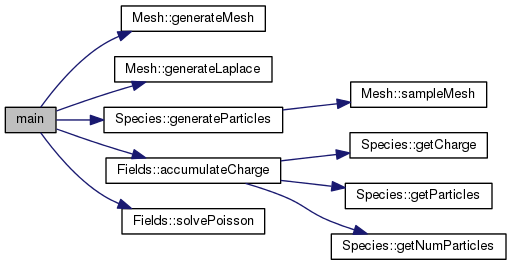
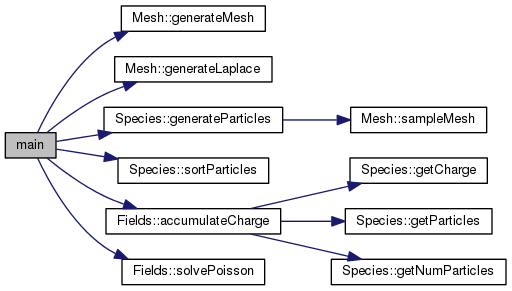
After adding sorting to particles in Species.

diff --git a/PICUP_8cpp_source.html b/PICUP_8cpp_source.html
@@ -111,27 +111,30 @@ var searchBox = new SearchBox("searchBox", "search",false,'Search');
 <div class="line"><a name="l00038"></a><span class="lineno">   38</span>&#160;        <span class="comment">// mesh_test.generateMesh(1, 1.0, 0.0);</span></div>
 <div class="line"><a name="l00039"></a><span class="lineno">   39</span>&#160;        mesh_test.<a class="code" href="classMesh.html#a6b21b6de5008d0b9e35f1eb82c22caab">generateMesh</a>(100, 0.0, 1.0);</div>
 <div class="line"><a name="l00040"></a><span class="lineno">   40</span>&#160;        mesh_test.<a class="code" href="classMesh.html#a3144c9e0bf0b5ce7bfd57762fd254d60">generateLaplace</a>();</div>
-<div class="line"><a name="l00041"></a><span class="lineno">   41</span>&#160;        parts_e.<a class="code" href="classSpecies.html#ad1289661204ea77d35bb47a4c77d0485">generateParticles</a>(1, mesh_test);</div>
-<div class="line"><a name="l00042"></a><span class="lineno">   42</span>&#160;        parts_p.<a class="code" href="classSpecies.html#ad1289661204ea77d35bb47a4c77d0485">generateParticles</a>(0, mesh_test);</div>
-<div class="line"><a name="l00043"></a><span class="lineno">   43</span>&#160;        <a class="code" href="classFields.html">Fields&lt;int, double&gt;</a> fields_test(mesh_test);</div>
-<div class="line"><a name="l00044"></a><span class="lineno">   44</span>&#160;        fields_test.<a class="code" href="classFields.html#aecb07f6f3713ecd2125e63c89cae2466">accumulateCharge</a>&lt;<span class="keywordtype">double</span>&gt;(parts_e);</div>
-<div class="line"><a name="l00045"></a><span class="lineno">   45</span>&#160;        fields_test.<a class="code" href="classFields.html#aecb07f6f3713ecd2125e63c89cae2466">accumulateCharge</a>&lt;<span class="keywordtype">double</span>&gt;(parts_p);</div>
-<div class="line"><a name="l00046"></a><span class="lineno">   46</span>&#160;        fields_test.<a class="code" href="classFields.html#af627aee2efcdbde1f7fe97e900e1ba53">solvePoisson</a>();</div>
-<div class="line"><a name="l00047"></a><span class="lineno">   47</span>&#160;        <span class="comment">//std::cout &lt;&lt; fields_test.getCharge() &lt;&lt; std::endl;</span></div>
-<div class="line"><a name="l00048"></a><span class="lineno">   48</span>&#160;        std::cout &lt;&lt; fields_test.getPotential() &lt;&lt; std::endl;</div>
-<div class="line"><a name="l00049"></a><span class="lineno">   49</span>&#160;    }</div>
-<div class="line"><a name="l00050"></a><span class="lineno">   50</span>&#160;    <span class="keywordflow">catch</span> (std::invalid_argument &amp;e)</div>
-<div class="line"><a name="l00051"></a><span class="lineno">   51</span>&#160;    {</div>
-<div class="line"><a name="l00052"></a><span class="lineno">   52</span>&#160;        std::cerr &lt;&lt; <span class="stringliteral">&quot;Invalid argument: &quot;</span> &lt;&lt; e.what() &lt;&lt; std::endl;</div>
-<div class="line"><a name="l00053"></a><span class="lineno">   53</span>&#160;    }</div>
-<div class="line"><a name="l00054"></a><span class="lineno">   54</span>&#160;    <span class="keywordflow">catch</span> (<span class="keywordtype">int</span> info)</div>
-<div class="line"><a name="l00055"></a><span class="lineno">   55</span>&#160;    {</div>
-<div class="line"><a name="l00056"></a><span class="lineno">   56</span>&#160;        std::cerr &lt;&lt; <span class="stringliteral">&quot;Bad Laplace operator generation: &quot;</span> &lt;&lt; info &lt;&lt;</div>
-<div class="line"><a name="l00057"></a><span class="lineno">   57</span>&#160;            std::endl;</div>
-<div class="line"><a name="l00058"></a><span class="lineno">   58</span>&#160;    }</div>
-<div class="line"><a name="l00059"></a><span class="lineno">   59</span>&#160;</div>
-<div class="line"><a name="l00060"></a><span class="lineno">   60</span>&#160;    <span class="keywordflow">return</span> 0;</div>
-<div class="line"><a name="l00061"></a><span class="lineno">   61</span>&#160;}</div>
+<div class="line"><a name="l00041"></a><span class="lineno">   41</span>&#160;        parts_e.<a class="code" href="classSpecies.html#ad1289661204ea77d35bb47a4c77d0485">generateParticles</a>(100, mesh_test);</div>
+<div class="line"><a name="l00042"></a><span class="lineno">   42</span>&#160;        parts_p.<a class="code" href="classSpecies.html#ad1289661204ea77d35bb47a4c77d0485">generateParticles</a>(100, mesh_test);</div>
+<div class="line"><a name="l00043"></a><span class="lineno">   43</span>&#160;        parts_e.<a class="code" href="classSpecies.html#a11726d80d9e43809d09175fa7a0ddc58">sortParticles</a>();</div>
+<div class="line"><a name="l00044"></a><span class="lineno">   44</span>&#160;        parts_p.<a class="code" href="classSpecies.html#a11726d80d9e43809d09175fa7a0ddc58">sortParticles</a>();</div>
+<div class="line"><a name="l00045"></a><span class="lineno">   45</span>&#160;        <a class="code" href="classFields.html">Fields&lt;int, double&gt;</a> fields_test(mesh_test);</div>
+<div class="line"><a name="l00046"></a><span class="lineno">   46</span>&#160;        fields_test.<a class="code" href="classFields.html#aecb07f6f3713ecd2125e63c89cae2466">accumulateCharge</a>&lt;<span class="keywordtype">double</span>&gt;(parts_e);</div>
+<div class="line"><a name="l00047"></a><span class="lineno">   47</span>&#160;        fields_test.<a class="code" href="classFields.html#aecb07f6f3713ecd2125e63c89cae2466">accumulateCharge</a>&lt;<span class="keywordtype">double</span>&gt;(parts_p);</div>
+<div class="line"><a name="l00048"></a><span class="lineno">   48</span>&#160;        fields_test.<a class="code" href="classFields.html#af627aee2efcdbde1f7fe97e900e1ba53">solvePoisson</a>();</div>
+<div class="line"><a name="l00049"></a><span class="lineno">   49</span>&#160;        <span class="comment">//std::cout &lt;&lt; fields_test.getCharge() &lt;&lt; std::endl;</span></div>
+<div class="line"><a name="l00050"></a><span class="lineno">   50</span>&#160;        <span class="comment">//std::cout &lt;&lt; fields_test.getPotential() &lt;&lt; std::endl;</span></div>
+<div class="line"><a name="l00051"></a><span class="lineno">   51</span>&#160;    }</div>
+<div class="line"><a name="l00052"></a><span class="lineno">   52</span>&#160;    <span class="keywordflow">catch</span> (std::invalid_argument &amp;e)</div>
+<div class="line"><a name="l00053"></a><span class="lineno">   53</span>&#160;    {</div>
+<div class="line"><a name="l00054"></a><span class="lineno">   54</span>&#160;        std::cerr &lt;&lt; <span class="stringliteral">&quot;Invalid argument: &quot;</span> &lt;&lt; e.what() &lt;&lt; std::endl;</div>
+<div class="line"><a name="l00055"></a><span class="lineno">   55</span>&#160;    }</div>
+<div class="line"><a name="l00056"></a><span class="lineno">   56</span>&#160;    <span class="keywordflow">catch</span> (<span class="keywordtype">int</span> info)</div>
+<div class="line"><a name="l00057"></a><span class="lineno">   57</span>&#160;    {</div>
+<div class="line"><a name="l00058"></a><span class="lineno">   58</span>&#160;        std::cerr &lt;&lt; <span class="stringliteral">&quot;Bad Laplace operator generation: &quot;</span> &lt;&lt; info &lt;&lt;</div>
+<div class="line"><a name="l00059"></a><span class="lineno">   59</span>&#160;            std::endl;</div>
+<div class="line"><a name="l00060"></a><span class="lineno">   60</span>&#160;    }</div>
+<div class="line"><a name="l00061"></a><span class="lineno">   61</span>&#160;</div>
+<div class="line"><a name="l00062"></a><span class="lineno">   62</span>&#160;    <span class="keywordflow">return</span> 0;</div>
+<div class="line"><a name="l00063"></a><span class="lineno">   63</span>&#160;}</div>
+<div class="ttc" id="classSpecies_html_a11726d80d9e43809d09175fa7a0ddc58"><div class="ttname"><a href="classSpecies.html#a11726d80d9e43809d09175fa7a0ddc58">Species::sortParticles</a></div><div class="ttdeci">void sortParticles()</div><div class="ttdoc">Reorder particles to be sorted/grouped by cell. </div><div class="ttdef"><b>Definition:</b> <a href="particles_8cpp_source.html#l00048">particles.cpp:48</a></div></div>
 <div class="ttc" id="classMesh_html"><div class="ttname"><a href="classMesh.html">Mesh</a></div><div class="ttdoc">A template class for the mesh. </div><div class="ttdef"><b>Definition:</b> <a href="mesh_8hpp_source.html#l00027">mesh.hpp:27</a></div></div>
 <div class="ttc" id="classMesh_html_a3144c9e0bf0b5ce7bfd57762fd254d60"><div class="ttname"><a href="classMesh.html#a3144c9e0bf0b5ce7bfd57762fd254d60">Mesh::generateLaplace</a></div><div class="ttdeci">void generateLaplace()</div><div class="ttdoc">Generates the laplace matrix based on the mesh. </div><div class="ttdef"><b>Definition:</b> <a href="mesh_8cpp_source.html#l00067">mesh.cpp:67</a></div></div>
 <div class="ttc" id="classFields_html_aecb07f6f3713ecd2125e63c89cae2466"><div class="ttname"><a href="classFields.html#aecb07f6f3713ecd2125e63c89cae2466">Fields::accumulateCharge</a></div><div class="ttdeci">void accumulateCharge(const Species&lt; PosVec, VelVec &gt; &amp;particles)</div><div class="ttdoc">Accumulate charge density. </div><div class="ttdef"><b>Definition:</b> <a href="fields_8cpp_source.html#l00028">fields.cpp:28</a></div></div>
@@ -145,7 +148,7 @@ var searchBox = new SearchBox("searchBox", "search",false,'Search');
 </div><!-- fragment --></div><!-- contents -->
 <!-- start footer part -->
 <hr class="footer"/><address class="footer"><small>
-Generated on Sun Mar 6 2016 15:56:16 for PICUP by &#160;<a href="http://www.doxygen.org/index.html">
+Generated on Sun Mar 6 2016 18:06:56 for PICUP by &#160;<a href="http://www.doxygen.org/index.html">
 <img class="footer" src="doxygen.png" alt="doxygen"/>
 </a> 1.8.6
 </small></address>

diff --git a/particles_8cpp_source.html b/particles_8cpp_source.html
@@ -122,23 +122,30 @@ var searchBox = new SearchBox("searchBox", "search",false,'Search');
 <div class="line"><a name="l00044"></a><span class="lineno">   44</span>&#160;    }</div>
 <div class="line"><a name="l00045"></a><span class="lineno">   45</span>&#160;}</div>
 <div class="line"><a name="l00046"></a><span class="lineno">   46</span>&#160;</div>
-<div class="line"><a name="l00047"></a><span class="lineno">   47</span>&#160;<span class="comment">/* These templates need to be instantiated so that classes of these</span></div>
-<div class="line"><a name="l00048"></a><span class="lineno">   48</span>&#160;<span class="comment"> * types my be used elsewhere in the code. */</span></div>
-<div class="line"><a name="l00049"></a><span class="lineno">   49</span>&#160;<span class="comment">// For 1-D PIC runs.</span></div>
-<div class="line"><a name="l00050"></a><span class="lineno">   50</span>&#160;<span class="keyword">template</span> <span class="keyword">class </span><a class="code" href="classSpecies.html">Species&lt;double, double&gt;</a>;</div>
-<div class="line"><a name="l00051"></a><span class="lineno">   51</span>&#160;<span class="keyword">template</span> <span class="keywordtype">void</span> <a class="code" href="classSpecies.html">Species&lt;double, double&gt;</a>::</div>
-<div class="line"><a name="l00052"></a><span class="lineno">   52</span>&#160;generateParticles&lt;int&gt;(<span class="keywordtype">int</span> N, <a class="code" href="classMesh.html">Mesh&lt;int, double&gt;</a> &amp;mesh);</div>
-<div class="line"><a name="l00053"></a><span class="lineno">   53</span>&#160;<span class="comment">// For 1-1/2-D PIC runs.</span></div>
-<div class="line"><a name="l00054"></a><span class="lineno">   54</span>&#160;<span class="comment">// template class Species&lt;double, Eigen::Vector2d&gt;;</span></div>
-<div class="line"><a name="l00055"></a><span class="lineno">   55</span>&#160;<span class="comment">// For 1-2/2-D PIC runs.</span></div>
-<div class="line"><a name="l00056"></a><span class="lineno">   56</span>&#160;<span class="comment">// template class Species&lt;double, Eigen::Vector3d&gt;;</span></div>
-<div class="line"><a name="l00057"></a><span class="lineno">   57</span>&#160;<span class="comment">// For 2-D PIC runs.</span></div>
-<div class="line"><a name="l00058"></a><span class="lineno">   58</span>&#160;<span class="comment">// template class Species&lt;Eigen::Vector2d, Eigen::Vector2d&gt;;</span></div>
-<div class="line"><a name="l00059"></a><span class="lineno">   59</span>&#160;<span class="comment">// For 2-1/2-D PIC runs.</span></div>
-<div class="line"><a name="l00060"></a><span class="lineno">   60</span>&#160;<span class="comment">// template class Species&lt;Eigen::Vector2d, Eigen::Vector3d&gt;;</span></div>
-<div class="line"><a name="l00061"></a><span class="lineno">   61</span>&#160;<span class="comment">// For 3-D PIC runs.</span></div>
-<div class="line"><a name="l00062"></a><span class="lineno">   62</span>&#160;<span class="comment">// template class Species&lt;Eigen::Vector3d, Eigen::Vector3d&gt;;</span></div>
+<div class="line"><a name="l00047"></a><span class="lineno">   47</span>&#160;<span class="keyword">template</span> &lt;<span class="keyword">typename</span> PosVec, <span class="keyword">typename</span> VelVec&gt;</div>
+<div class="line"><a name="l00048"></a><span class="lineno"><a class="line" href="classSpecies.html#a11726d80d9e43809d09175fa7a0ddc58">   48</a></span>&#160;<span class="keywordtype">void</span> <a class="code" href="classSpecies.html#a11726d80d9e43809d09175fa7a0ddc58">Species&lt;PosVec, VelVec&gt;::sortParticles</a>()</div>
+<div class="line"><a name="l00049"></a><span class="lineno">   49</span>&#160;{</div>
+<div class="line"><a name="l00050"></a><span class="lineno">   50</span>&#160;    std::sort(particle_list.begin(), particle_list.end());</div>
+<div class="line"><a name="l00051"></a><span class="lineno">   51</span>&#160;}</div>
+<div class="line"><a name="l00052"></a><span class="lineno">   52</span>&#160;</div>
+<div class="line"><a name="l00053"></a><span class="lineno">   53</span>&#160;<span class="comment">/* These templates need to be instantiated so that classes of these</span></div>
+<div class="line"><a name="l00054"></a><span class="lineno">   54</span>&#160;<span class="comment"> * types my be used elsewhere in the code. */</span></div>
+<div class="line"><a name="l00055"></a><span class="lineno">   55</span>&#160;<span class="comment">// For 1-D PIC runs.</span></div>
+<div class="line"><a name="l00056"></a><span class="lineno">   56</span>&#160;<span class="keyword">template</span> <span class="keyword">class </span><a class="code" href="classSpecies.html">Species&lt;double, double&gt;</a>;</div>
+<div class="line"><a name="l00057"></a><span class="lineno">   57</span>&#160;<span class="keyword">template</span> <span class="keywordtype">void</span> <a class="code" href="classSpecies.html">Species&lt;double, double&gt;</a>::</div>
+<div class="line"><a name="l00058"></a><span class="lineno">   58</span>&#160;generateParticles&lt;int&gt;(<span class="keywordtype">int</span> N, <a class="code" href="classMesh.html">Mesh&lt;int, double&gt;</a> &amp;mesh);</div>
+<div class="line"><a name="l00059"></a><span class="lineno">   59</span>&#160;<span class="comment">// For 1-1/2-D PIC runs.</span></div>
+<div class="line"><a name="l00060"></a><span class="lineno">   60</span>&#160;<span class="comment">// template class Species&lt;double, Eigen::Vector2d&gt;;</span></div>
+<div class="line"><a name="l00061"></a><span class="lineno">   61</span>&#160;<span class="comment">// For 1-2/2-D PIC runs.</span></div>
+<div class="line"><a name="l00062"></a><span class="lineno">   62</span>&#160;<span class="comment">// template class Species&lt;double, Eigen::Vector3d&gt;;</span></div>
+<div class="line"><a name="l00063"></a><span class="lineno">   63</span>&#160;<span class="comment">// For 2-D PIC runs.</span></div>
+<div class="line"><a name="l00064"></a><span class="lineno">   64</span>&#160;<span class="comment">// template class Species&lt;Eigen::Vector2d, Eigen::Vector2d&gt;;</span></div>
+<div class="line"><a name="l00065"></a><span class="lineno">   65</span>&#160;<span class="comment">// For 2-1/2-D PIC runs.</span></div>
+<div class="line"><a name="l00066"></a><span class="lineno">   66</span>&#160;<span class="comment">// template class Species&lt;Eigen::Vector2d, Eigen::Vector3d&gt;;</span></div>
+<div class="line"><a name="l00067"></a><span class="lineno">   67</span>&#160;<span class="comment">// For 3-D PIC runs.</span></div>
+<div class="line"><a name="l00068"></a><span class="lineno">   68</span>&#160;<span class="comment">// template class Species&lt;Eigen::Vector3d, Eigen::Vector3d&gt;;</span></div>
 <div class="ttc" id="classSpecies_html_a6cda52bf34407792b67bc579994f84da"><div class="ttname"><a href="classSpecies.html#a6cda52bf34407792b67bc579994f84da">Species::Species</a></div><div class="ttdeci">Species(double q, double m)</div><div class="ttdoc">Particles main constructor. </div><div class="ttdef"><b>Definition:</b> <a href="particles_8cpp_source.html#l00019">particles.cpp:19</a></div></div>
+<div class="ttc" id="classSpecies_html_a11726d80d9e43809d09175fa7a0ddc58"><div class="ttname"><a href="classSpecies.html#a11726d80d9e43809d09175fa7a0ddc58">Species::sortParticles</a></div><div class="ttdeci">void sortParticles()</div><div class="ttdoc">Reorder particles to be sorted/grouped by cell. </div><div class="ttdef"><b>Definition:</b> <a href="particles_8cpp_source.html#l00048">particles.cpp:48</a></div></div>
 <div class="ttc" id="particles_8hpp_html"><div class="ttname"><a href="particles_8hpp.html">particles.hpp</a></div><div class="ttdoc">Particles header file. </div></div>
 <div class="ttc" id="classMesh_html"><div class="ttname"><a href="classMesh.html">Mesh</a></div><div class="ttdoc">A template class for the mesh. </div><div class="ttdef"><b>Definition:</b> <a href="mesh_8hpp_source.html#l00027">mesh.hpp:27</a></div></div>
 <div class="ttc" id="classSpecies_html_ac820a2148e7badd07300d8505cbd02ac"><div class="ttname"><a href="classSpecies.html#ac820a2148e7badd07300d8505cbd02ac">Species::getCharge</a></div><div class="ttdeci">double getCharge() const </div><div class="ttdoc">Public facing method to get charge;. </div><div class="ttdef"><b>Definition:</b> <a href="particles_8cpp_source.html#l00028">particles.cpp:28</a></div></div>
@@ -150,7 +157,7 @@ var searchBox = new SearchBox("searchBox", "search",false,'Search');
 </div><!-- fragment --></div><!-- contents -->
 <!-- start footer part -->
 <hr class="footer"/><address class="footer"><small>
-Generated on Sun Mar 6 2016 15:56:16 for PICUP by &#160;<a href="http://www.doxygen.org/index.html">
+Generated on Sun Mar 6 2016 18:06:56 for PICUP by &#160;<a href="http://www.doxygen.org/index.html">
 <img class="footer" src="doxygen.png" alt="doxygen"/>
 </a> 1.8.6
 </small></address>

diff --git a/PICUP_8cpp.html b/PICUP_8cpp.html
@@ -158,7 +158,7 @@ Here is the call graph for this function:</div>
 <div class="dyncontent">
 <div class="center"><img src="PICUP_8cpp_a0ddf1224851353fc92bfbff6f499fa97_cgraph.png" border="0" usemap="#PICUP_8cpp_a0ddf1224851353fc92bfbff6f499fa97_cgraph" alt=""/></div>
 <map name="PICUP_8cpp_a0ddf1224851353fc92bfbff6f499fa97_cgraph" id="PICUP_8cpp_a0ddf1224851353fc92bfbff6f499fa97_cgraph">
-<area shape="rect" id="node2" href="classMesh.html#a6b21b6de5008d0b9e35f1eb82c22caab" title="Template routine to setup a mesh. " alt="" coords="121,5,265,32"/><area shape="rect" id="node3" href="classMesh.html#a3144c9e0bf0b5ce7bfd57762fd254d60" title="Generates the laplace matrix based on the mesh. " alt="" coords="115,56,272,83"/><area shape="rect" id="node4" href="classSpecies.html#ad1289661204ea77d35bb47a4c77d0485" title="Creates particles distributed across a given mesh. " alt="" coords="104,107,283,133"/><area shape="rect" id="node6" href="classFields.html#aecb07f6f3713ecd2125e63c89cae2466" title="Accumulate charge density. " alt="" coords="106,157,281,184"/><area shape="rect" id="node10" href="classFields.html#af627aee2efcdbde1f7fe97e900e1ba53" title="Solve the poisson equaion using the charge in rho_q array. " alt="" coords="122,208,265,235"/><area shape="rect" id="node5" href="classMesh.html#a2265d2587a7ac6bd3425872431483fab" title="Randomly sample the mesh space for a position. " alt="" coords="351,81,487,108"/><area shape="rect" id="node7" href="classSpecies.html#ac820a2148e7badd07300d8505cbd02ac" title="Public facing method to get charge;. " alt="" coords="350,132,487,159"/><area shape="rect" id="node8" href="classSpecies.html#a0616b84b0d104f752f411d7846a9da2c" title="Return a constant reference to particle positions. " alt="" coords="345,183,492,209"/><area shape="rect" id="node9" href="classSpecies.html#a3fa326115deec3df06a20ae7396bc0df" title="Public facing method to get num_particles. " alt="" coords="331,233,506,260"/></map>
+<area shape="rect" id="node2" href="classMesh.html#a6b21b6de5008d0b9e35f1eb82c22caab" title="Template routine to setup a mesh. " alt="" coords="121,5,265,32"/><area shape="rect" id="node3" href="classMesh.html#a3144c9e0bf0b5ce7bfd57762fd254d60" title="Generates the laplace matrix based on the mesh. " alt="" coords="115,56,272,83"/><area shape="rect" id="node4" href="classSpecies.html#ad1289661204ea77d35bb47a4c77d0485" title="Creates particles distributed across a given mesh. " alt="" coords="104,107,283,133"/><area shape="rect" id="node6" href="classSpecies.html#a11726d80d9e43809d09175fa7a0ddc58" title="Reorder particles to be sorted/grouped by cell. " alt="" coords="118,157,269,184"/><area shape="rect" id="node7" href="classFields.html#aecb07f6f3713ecd2125e63c89cae2466" title="Accumulate charge density. " alt="" coords="106,208,281,235"/><area shape="rect" id="node11" href="classFields.html#af627aee2efcdbde1f7fe97e900e1ba53" title="Solve the poisson equaion using the charge in rho_q array. " alt="" coords="122,259,265,285"/><area shape="rect" id="node5" href="classMesh.html#a2265d2587a7ac6bd3425872431483fab" title="Randomly sample the mesh space for a position. " alt="" coords="351,107,487,133"/><area shape="rect" id="node8" href="classSpecies.html#ac820a2148e7badd07300d8505cbd02ac" title="Public facing method to get charge;. " alt="" coords="350,157,487,184"/><area shape="rect" id="node9" href="classSpecies.html#a0616b84b0d104f752f411d7846a9da2c" title="Return a constant reference to particle positions. " alt="" coords="345,208,492,235"/><area shape="rect" id="node10" href="classSpecies.html#a3fa326115deec3df06a20ae7396bc0df" title="Public facing method to get num_particles. " alt="" coords="331,259,506,285"/></map>
 </div>
 </p>
 
@@ -167,7 +167,7 @@ Here is the call graph for this function:</div>
 </div><!-- contents -->
 <!-- start footer part -->
 <hr class="footer"/><address class="footer"><small>
-Generated on Sun Mar 6 2016 15:56:16 for PICUP by &#160;<a href="http://www.doxygen.org/index.html">
+Generated on Sun Mar 6 2016 18:06:56 for PICUP by &#160;<a href="http://www.doxygen.org/index.html">
 <img class="footer" src="doxygen.png" alt="doxygen"/>
 </a> 1.8.6
 </small></address>

diff --git a/particles_8hpp_source.html b/particles_8hpp_source.html
@@ -142,10 +142,14 @@ var searchBox = new SearchBox("searchBox", "search",false,'Search');
 <div class="line"><a name="l00103"></a><span class="lineno">  103</span>&#160;</div>
 <div class="line"><a name="l00113"></a><span class="lineno">  113</span>&#160;        <span class="keyword">template</span> &lt;<span class="keyword">typename</span> PosInd&gt;</div>
 <div class="line"><a name="l00114"></a><span class="lineno">  114</span>&#160;        <span class="keywordtype">void</span> <a class="code" href="classSpecies.html#ad1289661204ea77d35bb47a4c77d0485">generateParticles</a>(<span class="keywordtype">int</span> N, <a class="code" href="classMesh.html">Mesh&lt;PosInd, PosVec&gt;</a> &amp;mesh);</div>
-<div class="line"><a name="l00115"></a><span class="lineno">  115</span>&#160;};</div>
-<div class="line"><a name="l00116"></a><span class="lineno">  116</span>&#160;</div>
-<div class="line"><a name="l00117"></a><span class="lineno">  117</span>&#160;<span class="preprocessor">#endif //_particles_hpp</span></div>
+<div class="line"><a name="l00115"></a><span class="lineno">  115</span>&#160;</div>
+<div class="line"><a name="l00117"></a><span class="lineno">  117</span>&#160;</div>
+<div class="line"><a name="l00122"></a><span class="lineno">  122</span>&#160;        <span class="keywordtype">void</span> <a class="code" href="classSpecies.html#a11726d80d9e43809d09175fa7a0ddc58">sortParticles</a>();</div>
+<div class="line"><a name="l00123"></a><span class="lineno">  123</span>&#160;};</div>
+<div class="line"><a name="l00124"></a><span class="lineno">  124</span>&#160;</div>
+<div class="line"><a name="l00125"></a><span class="lineno">  125</span>&#160;<span class="preprocessor">#endif //_particles_hpp</span></div>
 <div class="ttc" id="classSpecies_html_a6cda52bf34407792b67bc579994f84da"><div class="ttname"><a href="classSpecies.html#a6cda52bf34407792b67bc579994f84da">Species::Species</a></div><div class="ttdeci">Species(double q, double m)</div><div class="ttdoc">Particles main constructor. </div><div class="ttdef"><b>Definition:</b> <a href="particles_8cpp_source.html#l00019">particles.cpp:19</a></div></div>
+<div class="ttc" id="classSpecies_html_a11726d80d9e43809d09175fa7a0ddc58"><div class="ttname"><a href="classSpecies.html#a11726d80d9e43809d09175fa7a0ddc58">Species::sortParticles</a></div><div class="ttdeci">void sortParticles()</div><div class="ttdoc">Reorder particles to be sorted/grouped by cell. </div><div class="ttdef"><b>Definition:</b> <a href="particles_8cpp_source.html#l00048">particles.cpp:48</a></div></div>
 <div class="ttc" id="classMesh_html"><div class="ttname"><a href="classMesh.html">Mesh</a></div><div class="ttdoc">A template class for the mesh. </div><div class="ttdef"><b>Definition:</b> <a href="mesh_8hpp_source.html#l00027">mesh.hpp:27</a></div></div>
 <div class="ttc" id="classSpecies_html_ac820a2148e7badd07300d8505cbd02ac"><div class="ttname"><a href="classSpecies.html#ac820a2148e7badd07300d8505cbd02ac">Species::getCharge</a></div><div class="ttdeci">double getCharge() const </div><div class="ttdoc">Public facing method to get charge;. </div><div class="ttdef"><b>Definition:</b> <a href="particles_8cpp_source.html#l00028">particles.cpp:28</a></div></div>
 <div class="ttc" id="structParticle_html"><div class="ttname"><a href="structParticle.html">Particle</a></div><div class="ttdoc">A template structure for an individual particle. </div><div class="ttdef"><b>Definition:</b> <a href="particles_8hpp_source.html#l00023">particles.hpp:23</a></div></div>
@@ -165,7 +169,7 @@ var searchBox = new SearchBox("searchBox", "search",false,'Search');
 </div><!-- fragment --></div><!-- contents -->
 <!-- start footer part -->
 <hr class="footer"/><address class="footer"><small>
-Generated on Sun Mar 6 2016 15:56:16 for PICUP by &#160;<a href="http://www.doxygen.org/index.html">
+Generated on Sun Mar 6 2016 18:06:56 for PICUP by &#160;<a href="http://www.doxygen.org/index.html">
 <img class="footer" src="doxygen.png" alt="doxygen"/>
 </a> 1.8.6
 </small></address>

diff --git a/classSpecies.html b/classSpecies.html
@@ -120,6 +120,9 @@ Public Member Functions</h2></td></tr>
 <tr class="memitem:ad1289661204ea77d35bb47a4c77d0485"><td class="memTemplItemLeft" align="right" valign="top">void&#160;</td><td class="memTemplItemRight" valign="bottom"><a class="el" href="classSpecies.html#ad1289661204ea77d35bb47a4c77d0485">generateParticles</a> (int N, <a class="el" href="classMesh.html">Mesh</a>&lt; PosInd, PosVec &gt; &amp;mesh)</td></tr>
 <tr class="memdesc:ad1289661204ea77d35bb47a4c77d0485"><td class="mdescLeft">&#160;</td><td class="mdescRight">Creates particles distributed across a given mesh.  <a href="#ad1289661204ea77d35bb47a4c77d0485">More...</a><br/></td></tr>
 <tr class="separator:ad1289661204ea77d35bb47a4c77d0485"><td class="memSeparator" colspan="2">&#160;</td></tr>
+<tr class="memitem:a11726d80d9e43809d09175fa7a0ddc58"><td class="memItemLeft" align="right" valign="top">void&#160;</td><td class="memItemRight" valign="bottom"><a class="el" href="classSpecies.html#a11726d80d9e43809d09175fa7a0ddc58">sortParticles</a> ()</td></tr>
+<tr class="memdesc:a11726d80d9e43809d09175fa7a0ddc58"><td class="mdescLeft">&#160;</td><td class="mdescRight">Reorder particles to be sorted/grouped by cell.  <a href="#a11726d80d9e43809d09175fa7a0ddc58">More...</a><br/></td></tr>
+<tr class="separator:a11726d80d9e43809d09175fa7a0ddc58"><td class="memSeparator" colspan="2">&#160;</td></tr>
 </table><table class="memberdecls">
 <tr class="heading"><td colspan="2"><h2 class="groupheader"><a name="pri-attribs"></a>
 Private Attributes</h2></td></tr>
@@ -340,6 +343,37 @@ Here is the caller graph for this function:</div>
 
 </div>
 </div>
+<a class="anchor" id="a11726d80d9e43809d09175fa7a0ddc58"></a>
+<div class="memitem">
+<div class="memproto">
+<div class="memtemplate">
+template&lt;typename PosVec , typename VelVec &gt; </div>
+      <table class="memname">
+        <tr>
+          <td class="memname">void <a class="el" href="classSpecies.html">Species</a>&lt; PosVec, VelVec &gt;::sortParticles </td>
+          <td>(</td>
+          <td class="paramname"></td><td>)</td>
+          <td></td>
+        </tr>
+      </table>
+</div><div class="memdoc">
+
+<p>Reorder particles to be sorted/grouped by cell. </p>
+<p>This helps with performance because fields in cache are more readily reused if all the particles in a cell are dealt with at once. </p>
+
+<p>Definition at line <a class="el" href="particles_8cpp_source.html#l00048">48</a> of file <a class="el" href="particles_8cpp_source.html">particles.cpp</a>.</p>
+
+<p><div class="dynheader">
+Here is the caller graph for this function:</div>
+<div class="dyncontent">
+<div class="center"><img src="classSpecies_a11726d80d9e43809d09175fa7a0ddc58_icgraph.png" border="0" usemap="#classSpecies_a11726d80d9e43809d09175fa7a0ddc58_icgraph" alt=""/></div>
+<map name="classSpecies_a11726d80d9e43809d09175fa7a0ddc58_icgraph" id="classSpecies_a11726d80d9e43809d09175fa7a0ddc58_icgraph">
+<area shape="rect" id="node2" href="PICUP_8cpp.html#a0ddf1224851353fc92bfbff6f499fa97" title="Currently used for testing functions manually. " alt="" coords="205,5,256,32"/></map>
+</div>
+</p>
+
+</div>
+</div>
 <h2 class="groupheader">Field Documentation</h2>
 <a class="anchor" id="ac2fce1ca0343696abac37b39478b2b09"></a>
 <div class="memitem">
@@ -475,7 +509,7 @@ template&lt;typename PosVec, typename VelVec&gt; </div>
 </div><!-- contents -->
 <!-- start footer part -->
 <hr class="footer"/><address class="footer"><small>
-Generated on Sun Mar 6 2016 15:56:16 for PICUP by &#160;<a href="http://www.doxygen.org/index.html">
+Generated on Sun Mar 6 2016 18:06:56 for PICUP by &#160;<a href="http://www.doxygen.org/index.html">
 <img class="footer" src="doxygen.png" alt="doxygen"/>
 </a> 1.8.6
 </small></address>

diff --git a/mesh_8cpp_source.html b/mesh_8cpp_source.html
@@ -276,7 +276,7 @@ var searchBox = new SearchBox("searchBox", "search",false,'Search');
 <div class="line"><a name="l00253"></a><span class="lineno">  253</span>&#160;<span class="keyword"></span>{</div>
 <div class="line"><a name="l00254"></a><span class="lineno">  254</span>&#160;    <span class="keywordflow">return</span> <span class="keyword">static_cast&lt;</span><span class="keywordtype">int</span><span class="keyword">&gt;</span>(std::floor((x - coordinates[0])</div>
 <div class="line"><a name="l00255"></a><span class="lineno">  255</span>&#160;            /(coordinates[num_meshpoints - 1] - coordinates[0])</div>
-<div class="line"><a name="l00256"></a><span class="lineno">  256</span>&#160;            *num_meshpoints));</div>
+<div class="line"><a name="l00256"></a><span class="lineno">  256</span>&#160;            *num_cells));</div>
 <div class="line"><a name="l00257"></a><span class="lineno">  257</span>&#160;}</div>
 <div class="line"><a name="l00258"></a><span class="lineno">  258</span>&#160;</div>
 <div class="line"><a name="l00259"></a><span class="lineno">  259</span>&#160;<span class="comment">/***********************************************************************</span></div>
@@ -297,7 +297,7 @@ var searchBox = new SearchBox("searchBox", "search",false,'Search');
 </div><!-- fragment --></div><!-- contents -->
 <!-- start footer part -->
 <hr class="footer"/><address class="footer"><small>
-Generated on Sun Mar 6 2016 15:56:16 for PICUP by &#160;<a href="http://www.doxygen.org/index.html">
+Generated on Sun Mar 6 2016 18:06:56 for PICUP by &#160;<a href="http://www.doxygen.org/index.html">
 <img class="footer" src="doxygen.png" alt="doxygen"/>
 </a> 1.8.6
 </small></address>

diff --git a/functions.html b/functions.html
@@ -267,6 +267,9 @@ var searchBox = new SearchBox("searchBox", "search",false,'Search');
 <li>solvePoisson()
 : <a class="el" href="classFields.html#af627aee2efcdbde1f7fe97e900e1ba53">Fields&lt; PosInd, PosVec &gt;</a>
 </li>
+<li>sortParticles()
+: <a class="el" href="classSpecies.html#a11726d80d9e43809d09175fa7a0ddc58">Species&lt; PosVec, VelVec &gt;</a>
+</li>
 <li>Species()
 : <a class="el" href="classSpecies.html#a6cda52bf34407792b67bc579994f84da">Species&lt; PosVec, VelVec &gt;</a>
 </li>
@@ -288,7 +291,7 @@ var searchBox = new SearchBox("searchBox", "search",false,'Search');
 </div><!-- contents -->
 <!-- start footer part -->
 <hr class="footer"/><address class="footer"><small>
-Generated on Sun Mar 6 2016 15:56:16 for PICUP by &#160;<a href="http://www.doxygen.org/index.html">
+Generated on Sun Mar 6 2016 18:06:56 for PICUP by &#160;<a href="http://www.doxygen.org/index.html">
 <img class="footer" src="doxygen.png" alt="doxygen"/>
 </a> 1.8.6
 </small></address>

diff --git a/functions_func.html b/functions_func.html
@@ -133,6 +133,9 @@ var searchBox = new SearchBox("searchBox", "search",false,'Search');
 <li>solvePoisson()
 : <a class="el" href="classFields.html#af627aee2efcdbde1f7fe97e900e1ba53">Fields&lt; PosInd, PosVec &gt;</a>
 </li>
+<li>sortParticles()
+: <a class="el" href="classSpecies.html#a11726d80d9e43809d09175fa7a0ddc58">Species&lt; PosVec, VelVec &gt;</a>
+</li>
 <li>Species()
 : <a class="el" href="classSpecies.html#a6cda52bf34407792b67bc579994f84da">Species&lt; PosVec, VelVec &gt;</a>
 </li>
@@ -140,7 +143,7 @@ var searchBox = new SearchBox("searchBox", "search",false,'Search');
 </div><!-- contents -->
 <!-- start footer part -->
 <hr class="footer"/><address class="footer"><small>
-Generated on Sun Mar 6 2016 15:56:16 for PICUP by &#160;<a href="http://www.doxygen.org/index.html">
+Generated on Sun Mar 6 2016 18:06:56 for PICUP by &#160;<a href="http://www.doxygen.org/index.html">
 <img class="footer" src="doxygen.png" alt="doxygen"/>
 </a> 1.8.6
 </small></address>

diff --git a/search/all_e.js b/search/all_e.js
@@ -2,5 +2,6 @@ var searchData=
 [
   ['samplemesh',['sampleMesh',['../classMesh.html#a2265d2587a7ac6bd3425872431483fab',1,'Mesh::sampleMesh()'],['../classMesh.html#a948743226f0731e5e68f821a24286bac',1,'Mesh::sampleMesh()']]],
   ['solvepoisson',['solvePoisson',['../classFields.html#af627aee2efcdbde1f7fe97e900e1ba53',1,'Fields']]],
+  ['sortparticles',['sortParticles',['../classSpecies.html#a11726d80d9e43809d09175fa7a0ddc58',1,'Species']]],
   ['species',['Species',['../classSpecies.html',1,'Species&lt; PosVec, VelVec &gt;'],['../classSpecies.html#a6cda52bf34407792b67bc579994f84da',1,'Species::Species()']]]
 ];

diff --git a/search/functions_5.js b/search/functions_5.js
@@ -2,5 +2,6 @@ var searchData=
 [
   ['samplemesh',['sampleMesh',['../classMesh.html#a2265d2587a7ac6bd3425872431483fab',1,'Mesh::sampleMesh()'],['../classMesh.html#a948743226f0731e5e68f821a24286bac',1,'Mesh::sampleMesh()']]],
   ['solvepoisson',['solvePoisson',['../classFields.html#af627aee2efcdbde1f7fe97e900e1ba53',1,'Fields']]],
+  ['sortparticles',['sortParticles',['../classSpecies.html#a11726d80d9e43809d09175fa7a0ddc58',1,'Species']]],
   ['species',['Species',['../classSpecies.html#a6cda52bf34407792b67bc579994f84da',1,'Species']]]
 ];

diff --git a/README_8md_source.html b/README_8md_source.html
@@ -124,7 +124,7 @@ var searchBox = new SearchBox("searchBox", "search",false,'Search');
 </div><!-- fragment --></div><!-- contents -->
 <!-- start footer part -->
 <hr class="footer"/><address class="footer"><small>
-Generated on Sun Mar 6 2016 15:56:16 for PICUP by &#160;<a href="http://www.doxygen.org/index.html">
+Generated on Sun Mar 6 2016 18:06:56 for PICUP by &#160;<a href="http://www.doxygen.org/index.html">
 <img class="footer" src="doxygen.png" alt="doxygen"/>
 </a> 1.8.6
 </small></address>

diff --git a/fields_8cpp_source.html b/fields_8cpp_source.html
@@ -149,7 +149,7 @@ var searchBox = new SearchBox("searchBox", "search",false,'Search');
 </div><!-- fragment --></div><!-- contents -->
 <!-- start footer part -->
 <hr class="footer"/><address class="footer"><small>
-Generated on Sun Mar 6 2016 15:56:16 for PICUP by &#160;<a href="http://www.doxygen.org/index.html">
+Generated on Sun Mar 6 2016 18:06:56 for PICUP by &#160;<a href="http://www.doxygen.org/index.html">
 <img class="footer" src="doxygen.png" alt="doxygen"/>
 </a> 1.8.6
 </small></address>
